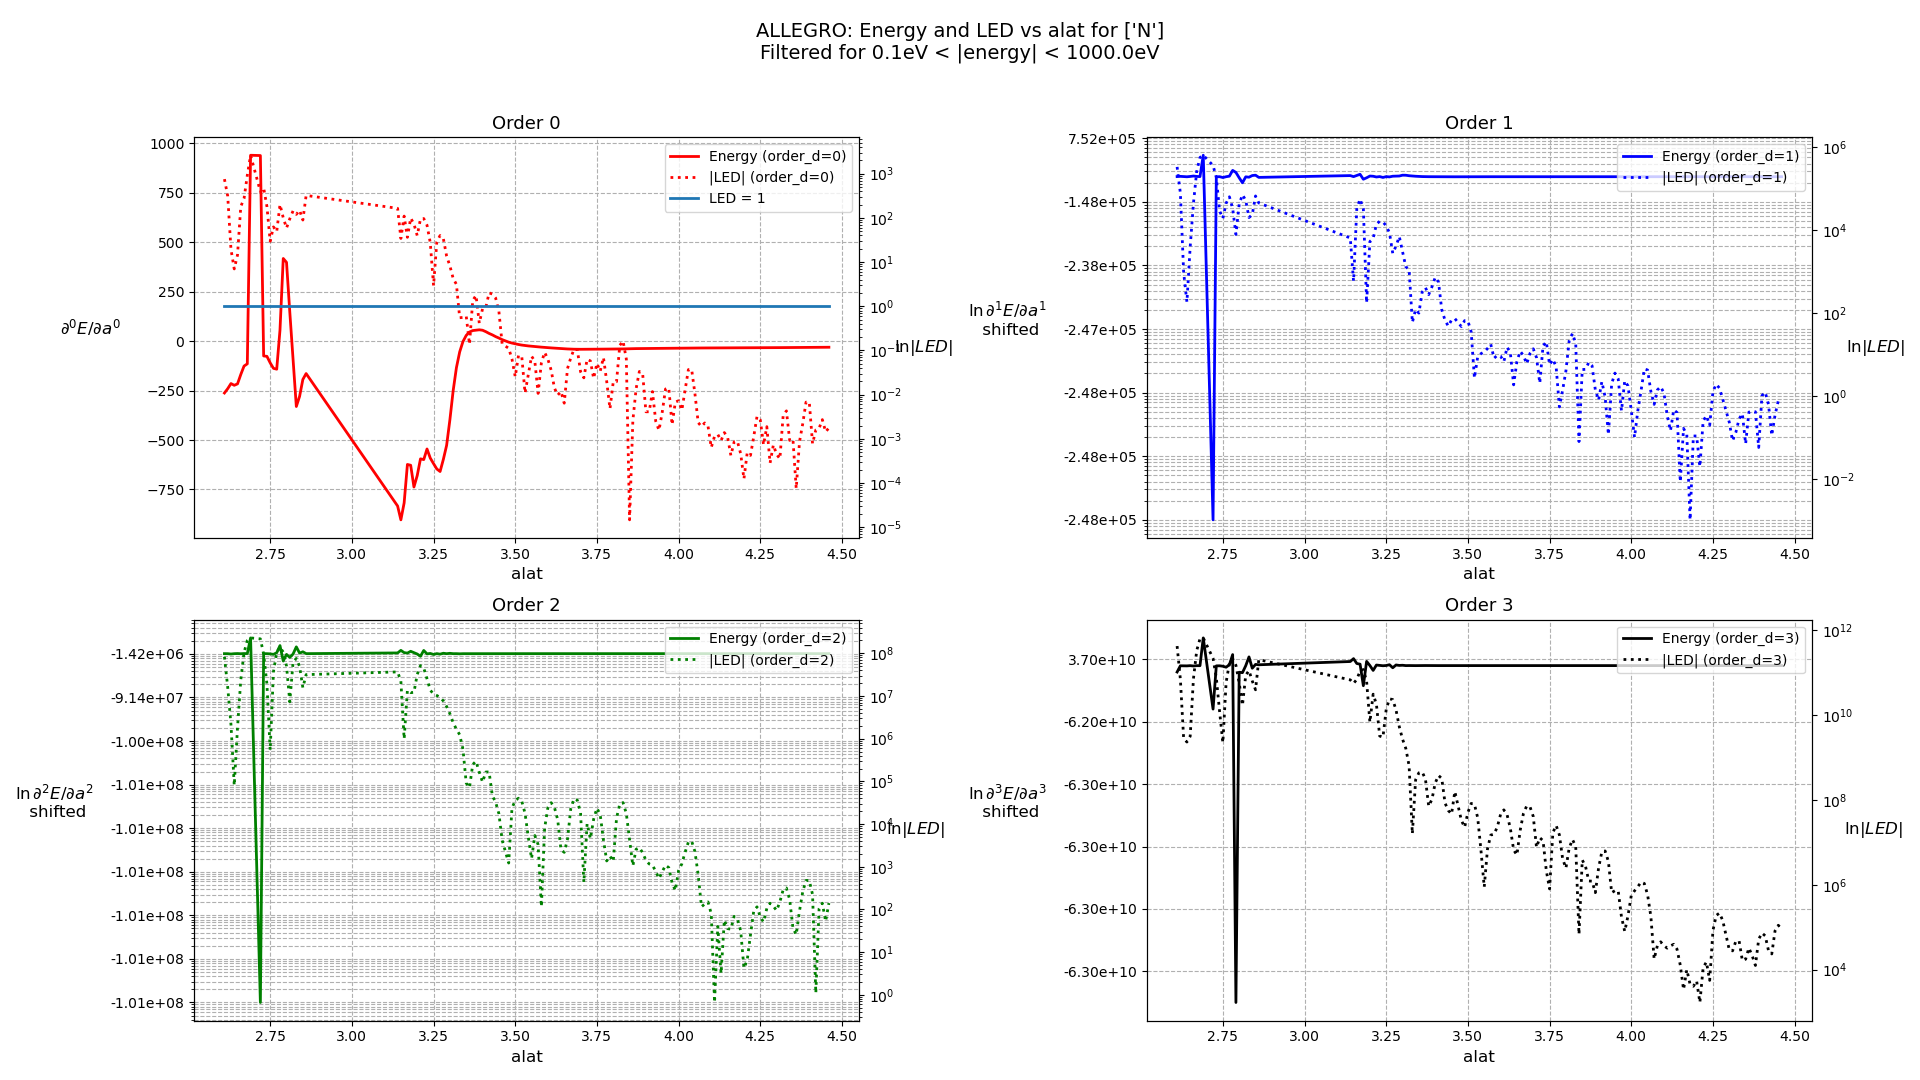
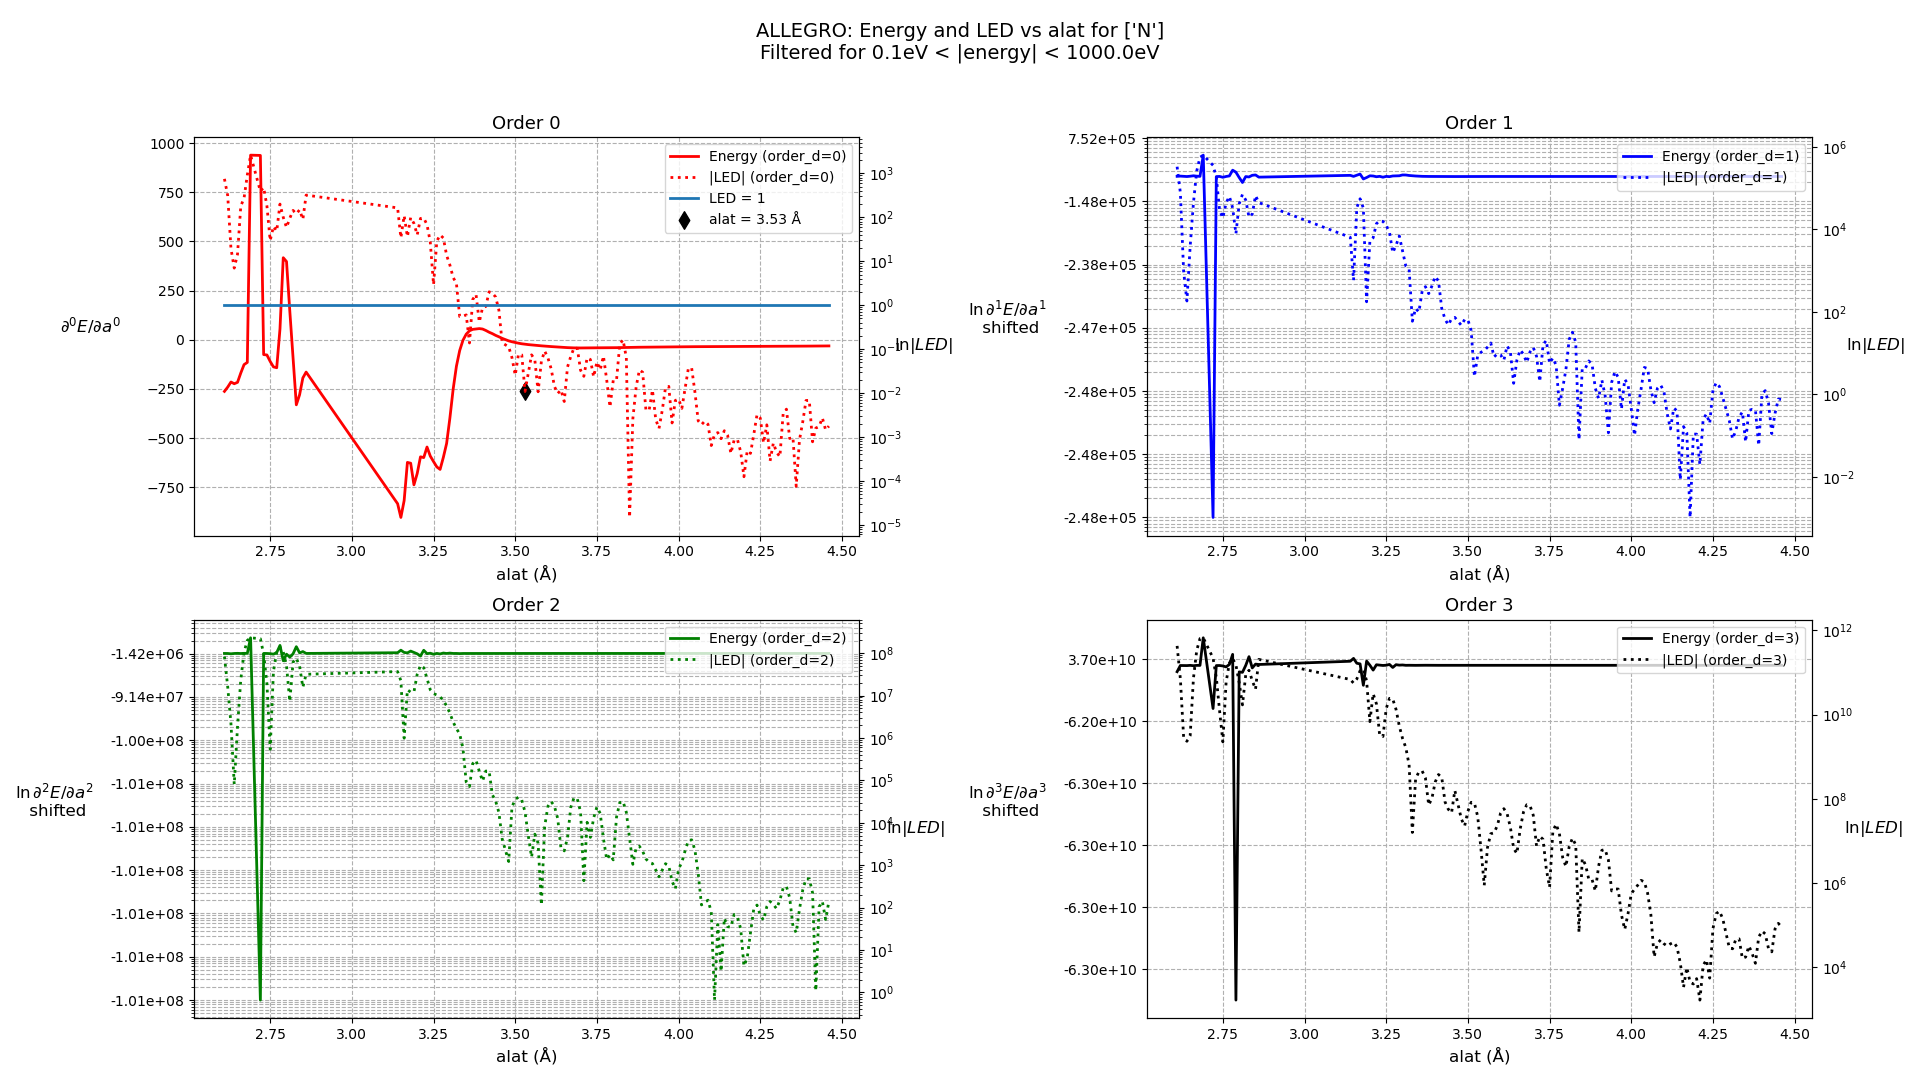
mark good-alat

diff --git a/plot-alat-range-finder.py b/plot-alat-range-finder.py
@@ -16,56 +16,56 @@ input_data = [
     #     "model_shortname": "SW_LeeHwang"
     # },
     # {
-    #     "species": ["Al"],
-    #     "model": "EAM_CubicNaturalSpline_ErcolessiAdams_1994_Al__MO_800509458712_003",
-    #     "model_shortname": "EAMCubinNaturalSpline"
+        # "species": ["Al"],
+        # "model": "EAM_CubicNaturalSpline_ErcolessiAdams_1994_Al__MO_800509458712_003",
+        # "model_shortname": "EAMCubinNaturalSpline"
     # },
     # {
-    #     "species": ["Ni", "Co", "Fe", "Cr", "Mn"],
-    #     "model": "TorchML_20231203_MACE_MP_0_128_L1_EP199__MO_000000000000_000",
-    #     "model_shortname": "MACE"
+        # "species": ["Ni", "Co", "Fe", "Cr", "Mn"],
+        # "model": "TorchML_20231203_MACE_MP_0_128_L1_EP199__MO_000000000000_000",
+        # "model_shortname": "MACE"
     # },
     # {
-    #     "species": ["Co", "Cr", "Fe", "Ni"],
-    #     "model": "TorchML_20231203_MACE_MP_0_128_L1_EP199__MO_000000000000_000",
-    #     "model_shortname": "MACE"
+        # "species": ["Co", "Cr", "Fe", "Ni"],
+        # "model": "TorchML_20231203_MACE_MP_0_128_L1_EP199__MO_000000000000_000",
+        # "model_shortname": "MACE"
     # },
     # {
-    #     "species": ["Al", "Co", "Cr", "Fe", "Ni"],
-    #     "model": "TorchML_20231203_MACE_MP_0_128_L1_EP199__MO_000000000000_000",
-    #     "model_shortname": "MACE"
+        # "species": ["Al", "Co", "Cr", "Fe", "Ni"],
+        # "model": "TorchML_20231203_MACE_MP_0_128_L1_EP199__MO_000000000000_000",
+        # "model_shortname": "MACE"
     # },
     # {
-    #     "species": ["Si"],
-    #     "model": "TorchML_20231203_MACE_MP_0_128_L1_EP199__MO_000000000000_000",
-    #     "model_shortname": "MACE"
+        # "species": ["Si"],
+        # "model": "TorchML_20231203_MACE_MP_0_128_L1_EP199__MO_000000000000_000",
+        # "model_shortname": "MACE"
     # },
     # {
-    #     "species" : ["H","C","N","O","S"],
-    #     "model": "TorchML_Allegro_NikidisKyriakopoulosTohidKachrimanisKioseoglou_2024_HCNOS__MO_000000000000_000",
-    #     "model_shortname" : "ALLEGRO"
+        # "species" : ["H","C","N","O","S"],
+        # "model": "TorchML_Allegro_NikidisKyriakopoulosTohidKachrimanisKioseoglou_2024_HCNOS__MO_000000000000_000",
+        # "model_shortname" : "ALLEGRO"
     # },
 
     # {
-    #     "species" : ["H"],
-    #     "model": "TorchML_Allegro_NikidisKyriakopoulosTohidKachrimanisKioseoglou_2024_HCNOS__MO_000000000000_000",
-    #     "model_shortname" : "ALLEGRO"
+        # "species" : ["H"],
+        # "model": "TorchML_Allegro_NikidisKyriakopoulosTohidKachrimanisKioseoglou_2024_HCNOS__MO_000000000000_000",
+        # "model_shortname" : "ALLEGRO"
     # },
     # {
-    #     "species" : ["C"],
-    #     "model": "TorchML_Allegro_NikidisKyriakopoulosTohidKachrimanisKioseoglou_2024_HCNOS__MO_000000000000_000",
-    #     "model_shortname" : "ALLEGRO"
+        # "species" : ["C"],
+        # "model": "TorchML_Allegro_NikidisKyriakopoulosTohidKachrimanisKioseoglou_2024_HCNOS__MO_000000000000_000",
+        # "model_shortname" : "ALLEGRO"
     # },
     # {
     #     "species" : ["N"],
     #     "model": "TorchML_Allegro_NikidisKyriakopoulosTohidKachrimanisKioseoglou_2024_HCNOS__MO_000000000000_000",
     #     "model_shortname" : "ALLEGRO"
     # },
-    # {
-    #     "species" : ["O"],
-    #     "model": "TorchML_Allegro_NikidisKyriakopoulosTohidKachrimanisKioseoglou_2024_HCNOS__MO_000000000000_000",
-    #     "model_shortname" : "ALLEGRO"
-    # },
+    {
+        "species" : ["O"],
+        "model": "TorchML_Allegro_NikidisKyriakopoulosTohidKachrimanisKioseoglou_2024_HCNOS__MO_000000000000_000",
+        "model_shortname" : "ALLEGRO"
+    },
 
     {
         "species" : ["S"],
@@ -80,7 +80,7 @@ import numpy as np
 import matplotlib.ticker as ticker
 from matplotlib.ticker import ScalarFormatter
 
-min_e = 1e-4
+min_e = 1e-2
 max_e = 1e+5
 
 def scientific_notation(x, pos):
@@ -101,6 +101,11 @@ for data in input_data:
 
     # Define colors
     colors = {0: 'red', 1: 'blue', 2: 'green', 3: 'black'}
+
+    min_cutoff:float = df['alat'].max()
+    search_range = 0.2*min_cutoff,0.8*min_cutoff
+    good_alat:float = None
+    minLED:float = None
 
     # Create a 2x2 grid of subplots
     fig, axes = plt.subplots(2, 2, figsize=(19.2 , 10.8))
@@ -140,11 +145,18 @@ for data in input_data:
                  linewidth=2, label=f'|LED| (order_d={order})')
         
         if order == 0:
+            # draw a solid line for |LED| = 1
             ax2.plot(subset['alat'], np.ones_like(subset['led']), lw=2, label="LED = 1")
+            # iterate over subset in the rnage 0.2*min_cutoff < alat < 0.8*min_cutoff and find the alat that has smalelst LED
+            subset_filtered = subset[(subset['alat'] >= search_range[0]) & (subset['alat'] <= search_range[1])]
+            min_led_row = subset_filtered.loc[np.abs(subset_filtered['led']).idxmin()]
+            good_alat = min_led_row['alat']
+            minLED = min_led_row['led']
+            ax2.scatter(good_alat,np.abs(minLED),color='black',marker='d',s=80,label=f'alat = {good_alat:.2f} Å')
 
         # Formatting
         ax1.set_title(f'Order {order}', fontsize=13)
-        ax1.set_xlabel('alat', fontsize=12)
+        ax1.set_xlabel('alat (Å)', fontsize=12)
         ax2.set_ylabel('$\\ln |LED| $', fontsize=12, rotation=0, labelpad=15)
         ax2.set_yscale('log')
         ax1.grid(True, which="both", ls="--")
